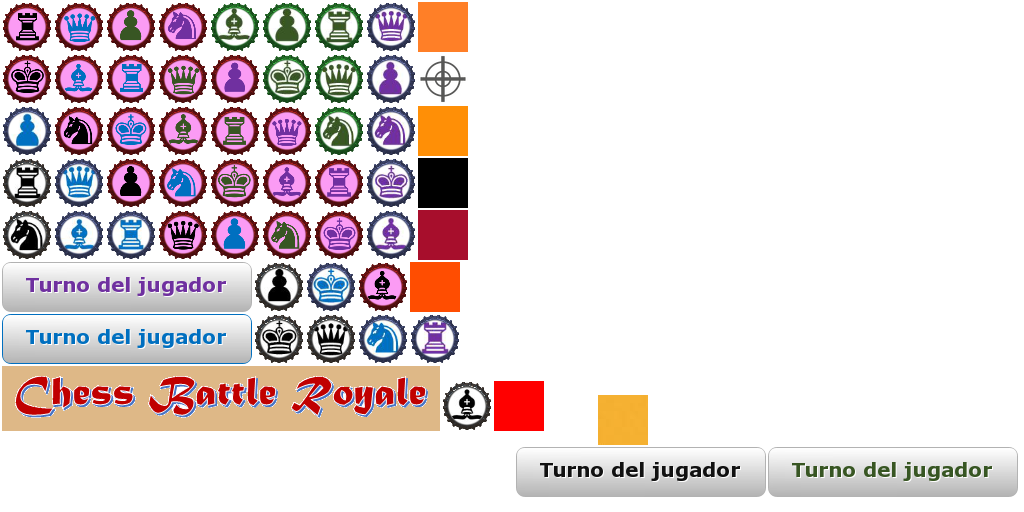
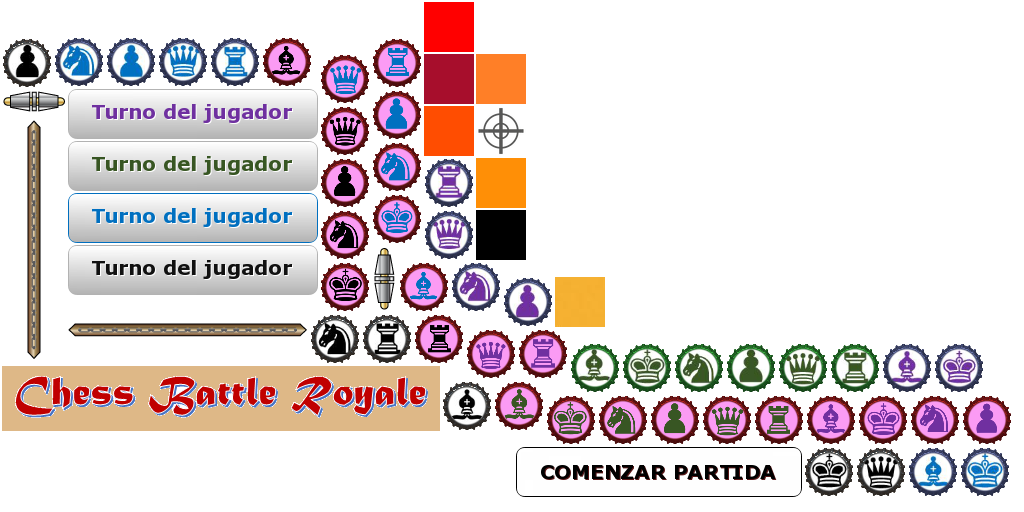
Preparando el menú de configuración

diff --git a/ChessBattleRoyale/core/src/Screens/MenuScreen.java b/ChessBattleRoyale/core/src/Screens/MenuScreen.java
@@ -1,0 +1,76 @@
+/*
+ * To change this license header, choose License Headers in Project Properties.
+ * To change this template file, choose Tools | Templates
+ * and open the template in the editor.
+ */
+package Screens;
+
+import com.badlogic.gdx.Gdx;
+import com.badlogic.gdx.graphics.GL20;
+import com.badlogic.gdx.graphics.g2d.TextureAtlas;
+import com.badlogic.gdx.scenes.scene2d.InputEvent;
+import com.badlogic.gdx.scenes.scene2d.Stage;
+import com.badlogic.gdx.scenes.scene2d.ui.ImageButton;
+import com.badlogic.gdx.scenes.scene2d.ui.Skin;
+import com.badlogic.gdx.scenes.scene2d.ui.Slider;
+import com.badlogic.gdx.scenes.scene2d.ui.Slider.SliderStyle;
+import com.badlogic.gdx.scenes.scene2d.utils.ActorGestureListener;
+import com.badlogic.gdx.utils.Align;
+import com.badlogic.gdx.utils.viewport.FitViewport;
+import com.pddm.game.ChessBattleRoyaleGame;
+
+/**
+ *
+ * @author Luis
+ */
+public class MenuScreen extends PlantillaScreen{
+    
+    Stage stage;
+    ImageButton IniciarPartidaButton;
+    Slider TiempoPorJugador;
+    TextureAtlas Atlas;
+    
+    public MenuScreen(ChessBattleRoyaleGame game) {
+        super(game);
+        stage=new Stage(game.Viewport);
+        Gdx.input.setInputProcessor(stage);
+        Atlas=game.getAssetManager().get("ChessBattleRoyale_assets.atlas");
+        Skin skin=new Skin(Atlas);
+        IniciarPartidaButton=new ImageButton(skin.getDrawable("buttonAceptar"));
+        IniciarPartidaButton.setPosition(stage.getViewport().getWorldWidth(), 50,Align.bottomRight);
+        IniciarPartidaButton.addListener(new ActorGestureListener(){
+            @Override
+            public void tap(InputEvent event, float x, float y, int count, int button) {
+                super.tap(event, x, y, count, button); //To change body of generated methods, choose Tools | Templates.
+                game.setScreen(new PartidaScreen(game));
+            }        
+        });
+        stage.addActor(IniciarPartidaButton);
+        SliderStyle sl=new SliderStyle(skin.getDrawable("slider-horizontal"),skin.getDrawable("slider-knob-horizontal"));
+        TiempoPorJugador = new Slider (1, 120, 1, false,sl);
+        TiempoPorJugador.setPosition(stage.getViewport().getWorldWidth(), 100,Align.bottomRight );
+        stage.addActor(TiempoPorJugador);
+
+    }
+
+    @Override
+    public void resize(int width, int height) {
+        stage.getViewport().update(width, height,true); //To change body of generated methods, choose Tools | Templates.
+    }
+
+    @Override
+    public void dispose() {
+        stage.dispose();
+    }
+
+    @Override
+    public void render(float delta) {
+        Gdx.gl.glClearColor(222/255f,184/255f,135/255f,1);
+        Gdx.gl.glClear(GL20.GL_COLOR_BUFFER_BIT);
+        
+        stage.draw(); //To change body of generated methods, choose Tools | Templates.
+    }
+
+
+    
+}

diff --git a/ChessBattleRoyale/core/src/com/pddm/game/ChessBattleRoyaleGame.java b/ChessBattleRoyale/core/src/com/pddm/game/ChessBattleRoyaleGame.java
@@ -1,27 +1,36 @@
 package com.pddm.game;
 
+import Screens.MenuScreen;
 import Screens.PartidaScreen;
 import com.badlogic.gdx.Game;
+import com.badlogic.gdx.Gdx;
 import com.badlogic.gdx.assets.AssetManager;
 import com.badlogic.gdx.graphics.g2d.SpriteBatch;
+import com.badlogic.gdx.utils.viewport.FitViewport;
+import com.sun.prism.image.ViewPort;
 
 public class ChessBattleRoyaleGame extends Game {
 
     private SpriteBatch batch;
-    private PartidaScreen partida;
+    //private PartidaScreen partida;
+    MenuScreen MenuPartida;
     private final AssetManager assetManager = new AssetManager();
+    public FitViewport Viewport;
     
     @Override
     public void create() {
         batch=new SpriteBatch();
-        partida=new PartidaScreen(this);       
-        setScreen(partida);       
+      //  partida=new PartidaScreen(this); 
+        Viewport =new FitViewport(Gdx.graphics.getWidth(),Gdx.graphics.getHeight());   
+        MenuPartida=new MenuScreen(this);
+        setScreen(MenuPartida); 
+            
     }
 
     @Override
     public void resize(int width, int height) {
         super.resize(width, height); //To change body of generated methods, choose Tools | Templates.
-        if (partida != null) partida.resize(width, height); 
+        //if (MenuPartida != null) MenuPartida.resize(width, height); 
     }
 
     @Override

diff --git a/ChessBattleRoyale/core/src/Screens/PartidaScreen.java b/ChessBattleRoyale/core/src/Screens/PartidaScreen.java
@@ -39,7 +39,8 @@ public class PartidaScreen extends PlantillaScreen{
         (EnumSet.allOf(Color.class)).forEach( x -> {
            ListaJugadores.add(new Jugador(1,TipoJugador.HUMANO,x));
         });
-        stage=new Stage(new FitViewport(Gdx.graphics.getWidth(),Gdx.graphics.getHeight()));
+        stage=new Stage(game.Viewport);
+        //stage=new Stage(new FitViewport(Gdx.graphics.getWidth(),Gdx.graphics.getHeight()));
         Gdx.input.setInputProcessor(stage);  
         tablero=new Board(NUMEROFILAS,NUMEROCOLUMNAS,atlas,ListaJugadores);
         tablero.TableroInicialPiezas14();        
@@ -50,7 +51,7 @@ public class PartidaScreen extends PlantillaScreen{
 
     @Override
     public void resize(int width, int height) {
-        stage.getViewport().update(width, height,false); //To change body of generated methods, choose Tools | Templates.
+        stage.getViewport().update(width, height,true); //To change body of generated methods, choose Tools | Templates.
         //stage.getViewport().project(Vector3.Zero);
     }
 
@@ -67,7 +68,6 @@ public class PartidaScreen extends PlantillaScreen{
     public void dispose() {
  //       super.dispose(); //To change body of generated methods, choose Tools | Templates.
         stage.dispose();
-        dispose();
     }
     
 }

diff --git a/ChessBattleRoyale/core/src/Screens/PlantillaScreen.java b/ChessBattleRoyale/core/src/Screens/PlantillaScreen.java
@@ -5,13 +5,8 @@
  */
 package Screens;
 
-import com.badlogic.gdx.Gdx;
 import com.badlogic.gdx.ScreenAdapter;
 import com.badlogic.gdx.audio.Sound;
-import com.badlogic.gdx.graphics.Camera;
-import com.badlogic.gdx.graphics.OrthographicCamera;
-import com.badlogic.gdx.graphics.g2d.BitmapFont;
-import com.badlogic.gdx.graphics.g2d.GlyphLayout;
 import com.badlogic.gdx.graphics.g2d.SpriteBatch;
 import com.badlogic.gdx.graphics.g2d.TextureAtlas;
 import com.pddm.game.ChessBattleRoyaleGame;
@@ -53,12 +48,12 @@ public abstract class PlantillaScreen extends ScreenAdapter {
 
     @Override
     public void hide() {
-        throw new UnsupportedOperationException("Not supported yet."); //To change body of generated methods, choose Tools | Templates.
+        dispose();
     }
 
     @Override
     public void dispose() {
-        throw new UnsupportedOperationException("Not supported yet."); //To change body of generated methods, choose Tools | Templates.
+
     }
 
     @Override
